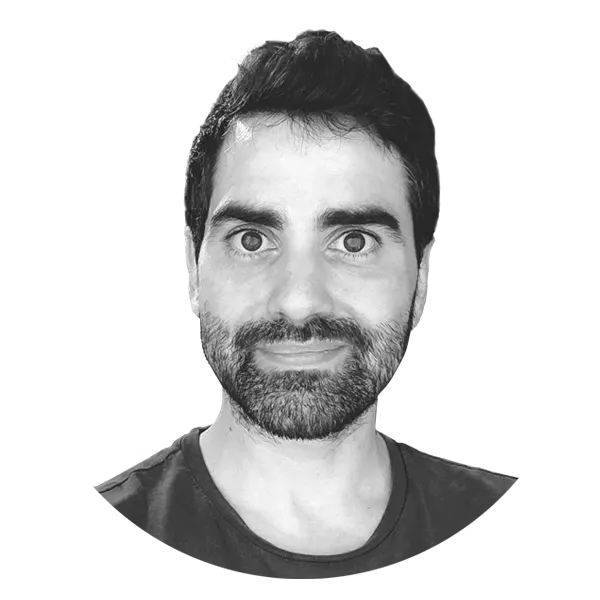
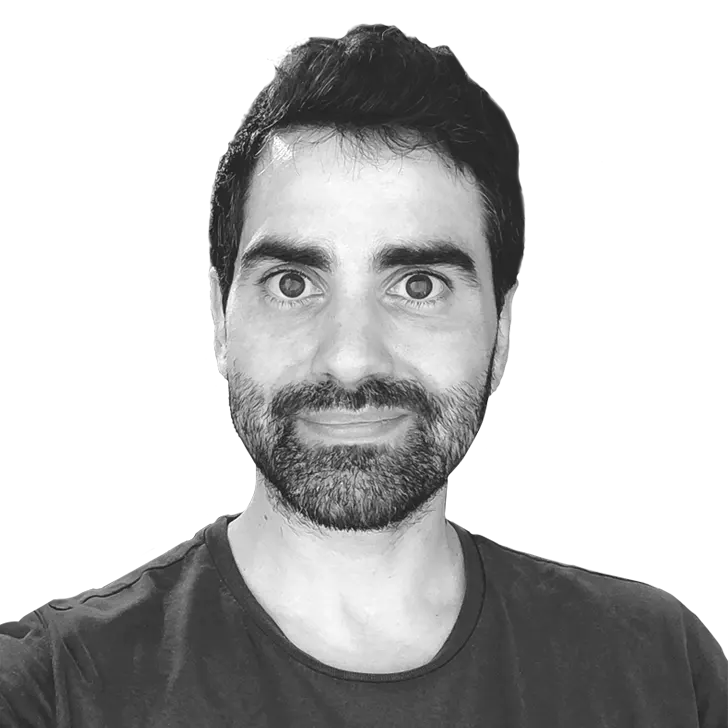
update

diff --git a/assets/css/theme.css b/assets/css/theme.css
@@ -1,1 +1,1 @@
-/*! tailwindcss v3.4.10 | MIT License | https://tailwindcss.com*/*,:after,:before{border:0 solid #e5e7eb;box-sizing:border-box}:after,:before{--tw-content:""}:host,html{-webkit-text-size-adjust:100%;font-feature-settings:normal;-webkit-tap-highlight-color:transparent;font-family:Source Code Pro,monospace,sans-serif;font-variation-settings:normal;line-height:1.5;-moz-tab-size:4;-o-tab-size:4;tab-size:4}body{line-height:inherit;margin:0}hr{border-top-width:1px;color:inherit;height:0}abbr:where([title]){-webkit-text-decoration:underline dotted;text-decoration:underline dotted}h1,h2,h3,h4,h5,h6{font-size:inherit;font-weight:inherit}a{color:inherit;text-decoration:inherit}b,strong{font-weight:bolder}code,kbd,pre,samp{font-feature-settings:normal;font-family:ui-monospace,SFMono-Regular,Menlo,Monaco,Consolas,Liberation Mono,Courier New,monospace;font-size:1em;font-variation-settings:normal}small{font-size:80%}sub,sup{font-size:75%;line-height:0;position:relative;vertical-align:baseline}sub{bottom:-.25em}sup{top:-.5em}table{border-collapse:collapse;border-color:inherit;text-indent:0}button,input,optgroup,select,textarea{font-feature-settings:inherit;color:inherit;font-family:inherit;font-size:100%;font-variation-settings:inherit;font-weight:inherit;letter-spacing:inherit;line-height:inherit;margin:0;padding:0}button,select{text-transform:none}button,input:where([type=button]),input:where([type=reset]),input:where([type=submit]){-webkit-appearance:button;background-color:transparent;background-image:none}:-moz-focusring{outline:auto}:-moz-ui-invalid{box-shadow:none}progress{vertical-align:baseline}::-webkit-inner-spin-button,::-webkit-outer-spin-button{height:auto}[type=search]{-webkit-appearance:textfield;outline-offset:-2px}::-webkit-search-decoration{-webkit-appearance:none}::-webkit-file-upload-button{-webkit-appearance:button;font:inherit}summary{display:list-item}blockquote,dd,dl,figure,h1,h2,h3,h4,h5,h6,hr,p,pre{margin:0}fieldset{margin:0}fieldset,legend{padding:0}menu,ol,ul{list-style:none;margin:0;padding:0}dialog{padding:0}textarea{resize:vertical}input::-moz-placeholder,textarea::-moz-placeholder{color:#9ca3af;opacity:1}input::placeholder,textarea::placeholder{color:#9ca3af;opacity:1}[role=button],button{cursor:pointer}:disabled{cursor:default}audio,canvas,embed,iframe,img,object,svg,video{display:block;vertical-align:middle}img,video{height:auto;max-width:100%}[hidden]{display:none}@font-face{font-display:swap;font-family:Source Code Pro;font-style:normal;font-weight:100 900;src:url(../fonts/SourceCodePro.ttf) format("truetype"),}@font-face{font-display:swap;font-family:Jersey;font-style:normal;font-weight:100 900;src:url(../fonts/Jersey10.ttf) format("truetype"),}html{--tw-text-opacity:1;color:rgb(71 85 105/var(--tw-text-opacity))}*,:after,:before{--tw-border-spacing-x:0;--tw-border-spacing-y:0;--tw-translate-x:0;--tw-translate-y:0;--tw-rotate:0;--tw-skew-x:0;--tw-skew-y:0;--tw-scale-x:1;--tw-scale-y:1;--tw-pan-x: ;--tw-pan-y: ;--tw-pinch-zoom: ;--tw-scroll-snap-strictness:proximity;--tw-gradient-from-position: ;--tw-gradient-via-position: ;--tw-gradient-to-position: ;--tw-ordinal: ;--tw-slashed-zero: ;--tw-numeric-figure: ;--tw-numeric-spacing: ;--tw-numeric-fraction: ;--tw-ring-inset: ;--tw-ring-offset-width:0px;--tw-ring-offset-color:#fff;--tw-ring-color:rgba(59,130,246,.5);--tw-ring-offset-shadow:0 0 #0000;--tw-ring-shadow:0 0 #0000;--tw-shadow:0 0 #0000;--tw-shadow-colored:0 0 #0000;--tw-blur: ;--tw-brightness: ;--tw-contrast: ;--tw-grayscale: ;--tw-hue-rotate: ;--tw-invert: ;--tw-saturate: ;--tw-sepia: ;--tw-drop-shadow: ;--tw-backdrop-blur: ;--tw-backdrop-brightness: ;--tw-backdrop-contrast: ;--tw-backdrop-grayscale: ;--tw-backdrop-hue-rotate: ;--tw-backdrop-invert: ;--tw-backdrop-opacity: ;--tw-backdrop-saturate: ;--tw-backdrop-sepia: ;--tw-contain-size: ;--tw-contain-layout: ;--tw-contain-paint: ;--tw-contain-style: }::backdrop{--tw-border-spacing-x:0;--tw-border-spacing-y:0;--tw-translate-x:0;--tw-translate-y:0;--tw-rotate:0;--tw-skew-x:0;--tw-skew-y:0;--tw-scale-x:1;--tw-scale-y:1;--tw-pan-x: ;--tw-pan-y: ;--tw-pinch-zoom: ;--tw-scroll-snap-strictness:proximity;--tw-gradient-from-position: ;--tw-gradient-via-position: ;--tw-gradient-to-position: ;--tw-ordinal: ;--tw-slashed-zero: ;--tw-numeric-figure: ;--tw-numeric-spacing: ;--tw-numeric-fraction: ;--tw-ring-inset: ;--tw-ring-offset-width:0px;--tw-ring-offset-color:#fff;--tw-ring-color:rgba(59,130,246,.5);--tw-ring-offset-shadow:0 0 #0000;--tw-ring-shadow:0 0 #0000;--tw-shadow:0 0 #0000;--tw-shadow-colored:0 0 #0000;--tw-blur: ;--tw-brightness: ;--tw-contrast: ;--tw-grayscale: ;--tw-hue-rotate: ;--tw-invert: ;--tw-saturate: ;--tw-sepia: ;--tw-drop-shadow: ;--tw-backdrop-blur: ;--tw-backdrop-brightness: ;--tw-backdrop-contrast: ;--tw-backdrop-grayscale: ;--tw-backdrop-hue-rotate: ;--tw-backdrop-invert: ;--tw-backdrop-opacity: ;--tw-backdrop-saturate: ;--tw-backdrop-sepia: ;--tw-contain-size: ;--tw-contain-layout: ;--tw-contain-paint: ;--tw-contain-style: }.container{margin-left:auto;margin-right:auto;padding-left:1rem;padding-right:1rem;width:100%}@media (min-width:600px){.container{max-width:600px;padding-left:2rem;padding-right:2rem}}@media (min-width:728px){.container{max-width:728px}}@media (min-width:984px){.container{max-width:984px;padding-left:4rem;padding-right:4rem}}@media (min-width:1120px){.container{max-width:1120px;padding-left:5rem;padding-right:5rem}}@media (min-width:1280px){.container{max-width:1280px;padding-left:6rem;padding-right:6rem}}.btn_nav{--tw-border-opacity:1;--tw-text-opacity:1;--tw-shadow:0 4px 6px -1px rgba(0,0,0,.1),0 2px 4px -2px rgba(0,0,0,.1);--tw-shadow-colored:0 4px 6px -1px var(--tw-shadow-color),0 2px 4px -2px var(--tw-shadow-color);--tw-backdrop-blur:blur(8px);align-self:center;border-color:rgb(255 255 255/var(--tw-border-opacity));border-left-width:1px;border-radius:9999px;border-top-width:1px;color:rgb(71 85 105/var(--tw-text-opacity));display:flex;font-size:.875rem;font-weight:600;justify-content:center;line-height:1.25rem;padding:.25rem 1rem;position:relative;text-align:center}.btn_nav,.btn_nav:hover{-webkit-backdrop-filter:var(--tw-backdrop-blur) var(--tw-backdrop-brightness) var(--tw-backdrop-contrast) var(--tw-backdrop-grayscale) var(--tw-backdrop-hue-rotate) var(--tw-backdrop-invert) var(--tw-backdrop-opacity) var(--tw-backdrop-saturate) var(--tw-backdrop-sepia);backdrop-filter:var(--tw-backdrop-blur) var(--tw-backdrop-brightness) var(--tw-backdrop-contrast) var(--tw-backdrop-grayscale) var(--tw-backdrop-hue-rotate) var(--tw-backdrop-invert) var(--tw-backdrop-opacity) var(--tw-backdrop-saturate) var(--tw-backdrop-sepia);box-shadow:var(--tw-ring-offset-shadow,0 0 #0000),var(--tw-ring-shadow,0 0 #0000),var(--tw-shadow)}.btn_nav:hover{--tw-border-opacity:1;--tw-text-opacity:1;--tw-shadow:inset 0 2px 4px 0 rgba(0,0,0,.05);--tw-shadow-colored:inset 0 2px 4px 0 var(--tw-shadow-color);--tw-backdrop-blur: ;border-color:rgb(203 213 225/var(--tw-border-opacity));color:rgb(139 92 246/var(--tw-text-opacity))}.btn_nav:where(.dark,.dark *){--tw-border-opacity:1;--tw-text-opacity:1;border-color:rgb(71 85 105/var(--tw-border-opacity));color:rgb(255 255 255/var(--tw-text-opacity))}.btn_nav:where(.dark,.dark *):hover{--tw-border-opacity:1;border-color:rgb(2 6 23/var(--tw-border-opacity))}.btn_nav:hover:where(.dark,.dark *){--tw-text-opacity:1;color:rgb(110 231 183/var(--tw-text-opacity))}.visible{visibility:visible}.static{position:static}.fixed{position:fixed}.absolute{position:absolute}.relative{position:relative}.sticky{position:sticky}.-top-2{top:-.5rem}.bottom-0{bottom:0}.left-0{left:0}.right-7{right:1.75rem}.top-0{top:0}.top-7{top:1.75rem}.-z-10{z-index:-10}.z-50{z-index:50}.mx-auto{margin-left:auto;margin-right:auto}.my-12{margin-bottom:3rem;margin-top:3rem}.mb-6{margin-bottom:1.5rem}.block{display:block}.inline-block{display:inline-block}.inline{display:inline}.flex{display:flex}.table{display:table}.grid{display:grid}.contents{display:contents}.hidden{display:none}.aspect-square{aspect-ratio:1/1}.h-36{height:9rem}.h-48{height:12rem}.h-fit{height:-moz-fit-content;height:fit-content}.h-full{height:100%}.min-h-dvh{min-height:100dvh}.w-auto{width:auto}.w-fit{width:-moz-fit-content;width:fit-content}.w-full{width:100%}.shrink{flex-shrink:1}.rotate-45{--tw-rotate:45deg}.rotate-45,.transform{transform:translate(var(--tw-translate-x),var(--tw-translate-y)) rotate(var(--tw-rotate)) skewX(var(--tw-skew-x)) skewY(var(--tw-skew-y)) scaleX(var(--tw-scale-x)) scaleY(var(--tw-scale-y))}.cursor-pointer{cursor:pointer}.resize{resize:both}.snap-y{scroll-snap-type:y var(--tw-scroll-snap-strictness)}.snap-mandatory{--tw-scroll-snap-strictness:mandatory}.snap-always{scroll-snap-stop:always}.flex-row{flex-direction:row}.flex-col{flex-direction:column}.flex-col-reverse{flex-direction:column-reverse}.flex-wrap{flex-wrap:wrap}.items-center{align-items:center}.justify-end{justify-content:flex-end}.justify-center{justify-content:center}.justify-between{justify-content:space-between}.gap-10{gap:2.5rem}.gap-3{gap:.75rem}.gap-y-6{row-gap:1.5rem}.self-end{align-self:flex-end}.self-center{align-self:center}.overflow-x-hidden{overflow-x:hidden}.scroll-smooth{scroll-behavior:smooth}.rounded-full{border-radius:9999px}.rounded-lg{border-radius:.5rem}.border{border-width:1px}.border-l{border-left-width:1px}.border-t{border-top-width:1px}.border-white{--tw-border-opacity:1;border-color:rgb(255 255 255/var(--tw-border-opacity))}.bg-\[rgba\(255\2c 255\2c 255\2c 0\.1\)\]{background-color:hsla(0,0%,100%,.1)}.bg-black\/50{background-color:rgba(0,0,0,.5)}.bg-transparent{background-color:transparent}.bg-white{--tw-bg-opacity:1;background-color:rgb(255 255 255/var(--tw-bg-opacity))}.bg-\[radial-gradient\(ellipse_at_top\2c _var\(--tw-gradient-stops\)\)\]{background-image:radial-gradient(ellipse at top,var(--tw-gradient-stops))}.from-slate-50{--tw-gradient-from:#f8fafc var(--tw-gradient-from-position);--tw-gradient-to:rgba(248,250,252,0) var(--tw-gradient-to-position);--tw-gradient-stops:var(--tw-gradient-from),var(--tw-gradient-to)}.via-slate-100{--tw-gradient-to:rgba(241,245,249,0) var(--tw-gradient-to-position);--tw-gradient-stops:var(--tw-gradient-from),#f1f5f9 var(--tw-gradient-via-position),var(--tw-gradient-to)}.to-gray-50{--tw-gradient-to:#f9fafb var(--tw-gradient-to-position)}.fill-slate-600{fill:#475569}.stroke-black{stroke:#000}.p-2{padding:.5rem}.p-6{padding:1.5rem}.p-8{padding:2rem}.px-6{padding-left:1.5rem;padding-right:1.5rem}.py-3{padding-bottom:.75rem;padding-top:.75rem}.py-4{padding-bottom:1rem;padding-top:1rem}.py-6{padding-bottom:1.5rem;padding-top:1.5rem}.text-center{text-align:center}.font-title{font-family:Jersey,fantasy,serif,system-ui,sans-serif}.text-2xl{font-size:1.5rem;line-height:2rem}.text-3xl{font-size:1.875rem;line-height:2.25rem}.text-4xl{font-size:2.25rem;line-height:2.5rem}.text-base{font-size:1rem;line-height:1.5rem}.text-sm{font-size:.875rem;line-height:1.25rem}.text-xl{font-size:1.25rem;line-height:1.75rem}.text-xs{font-size:.75rem;line-height:1rem}.font-bold{font-weight:700}.font-light{font-weight:300}.font-medium{font-weight:500}.font-semibold{font-weight:600}.leading-3{line-height:.75rem}.leading-4{line-height:1rem}.text-gray-700{--tw-text-opacity:1;color:rgb(55 65 81/var(--tw-text-opacity))}.text-violet-500{--tw-text-opacity:1;color:rgb(139 92 246/var(--tw-text-opacity))}.opacity-10{opacity:.1}.opacity-40{opacity:.4}.opacity-60{opacity:.6}.shadow{--tw-shadow:0 1px 3px 0 rgba(0,0,0,.1),0 1px 2px -1px rgba(0,0,0,.1);--tw-shadow-colored:0 1px 3px 0 var(--tw-shadow-color),0 1px 2px -1px var(--tw-shadow-color)}.shadow,.shadow-md{box-shadow:var(--tw-ring-offset-shadow,0 0 #0000),var(--tw-ring-shadow,0 0 #0000),var(--tw-shadow)}.shadow-md{--tw-shadow:0 4px 6px -1px rgba(0,0,0,.1),0 2px 4px -2px rgba(0,0,0,.1);--tw-shadow-colored:0 4px 6px -1px var(--tw-shadow-color),0 2px 4px -2px var(--tw-shadow-color)}.shadow-neutral-300{--tw-shadow-color:#d4d4d4;--tw-shadow:var(--tw-shadow-colored)}.shadow-slate-950\/20{--tw-shadow-color:rgba(2,6,23,.2);--tw-shadow:var(--tw-shadow-colored)}.outline{outline-style:solid}.ring{--tw-ring-offset-shadow:var(--tw-ring-inset) 0 0 0 var(--tw-ring-offset-width) var(--tw-ring-offset-color);--tw-ring-shadow:var(--tw-ring-inset) 0 0 0 calc(3px + var(--tw-ring-offset-width)) var(--tw-ring-color);box-shadow:var(--tw-ring-offset-shadow),var(--tw-ring-shadow),var(--tw-shadow,0 0 #0000)}.blur{--tw-blur:blur(8px)}.blur,.brightness-0{filter:var(--tw-blur) var(--tw-brightness) var(--tw-contrast) var(--tw-grayscale) var(--tw-hue-rotate) var(--tw-invert) var(--tw-saturate) var(--tw-sepia) var(--tw-drop-shadow)}.brightness-0{--tw-brightness:brightness(0)}.drop-shadow{--tw-drop-shadow:drop-shadow(0 1px 2px rgba(0,0,0,.1)) drop-shadow(0 1px 1px rgba(0,0,0,.06))}.drop-shadow,.drop-shadow-md{filter:var(--tw-blur) var(--tw-brightness) var(--tw-contrast) var(--tw-grayscale) var(--tw-hue-rotate) var(--tw-invert) var(--tw-saturate) var(--tw-sepia) var(--tw-drop-shadow)}.drop-shadow-md{--tw-drop-shadow:drop-shadow(0 4px 3px rgba(0,0,0,.07)) drop-shadow(0 2px 2px rgba(0,0,0,.06))}.invert{--tw-invert:invert(100%)}.filter,.invert{filter:var(--tw-blur) var(--tw-brightness) var(--tw-contrast) var(--tw-grayscale) var(--tw-hue-rotate) var(--tw-invert) var(--tw-saturate) var(--tw-sepia) var(--tw-drop-shadow)}.backdrop-blur{--tw-backdrop-blur:blur(8px)}.backdrop-blur,.backdrop-blur-sm{-webkit-backdrop-filter:var(--tw-backdrop-blur) var(--tw-backdrop-brightness) var(--tw-backdrop-contrast) var(--tw-backdrop-grayscale) var(--tw-backdrop-hue-rotate) var(--tw-backdrop-invert) var(--tw-backdrop-opacity) var(--tw-backdrop-saturate) var(--tw-backdrop-sepia);backdrop-filter:var(--tw-backdrop-blur) var(--tw-backdrop-brightness) var(--tw-backdrop-contrast) var(--tw-backdrop-grayscale) var(--tw-backdrop-hue-rotate) var(--tw-backdrop-invert) var(--tw-backdrop-opacity) var(--tw-backdrop-saturate) var(--tw-backdrop-sepia)}.backdrop-blur-sm{--tw-backdrop-blur:blur(4px)}.transition{transition-duration:.15s;transition-property:color,background-color,border-color,text-decoration-color,fill,stroke,opacity,box-shadow,transform,filter,-webkit-backdrop-filter;transition-property:color,background-color,border-color,text-decoration-color,fill,stroke,opacity,box-shadow,transform,filter,backdrop-filter;transition-property:color,background-color,border-color,text-decoration-color,fill,stroke,opacity,box-shadow,transform,filter,backdrop-filter,-webkit-backdrop-filter;transition-timing-function:cubic-bezier(.4,0,.2,1)}.transition-opacity{transition-duration:.15s;transition-property:opacity;transition-timing-function:cubic-bezier(.4,0,.2,1)}.duration-500{transition-duration:.5s}.before\:top-0:before{content:var(--tw-content);top:0}.before\:top-10:before{content:var(--tw-content);top:2.5rem}.before\:top-20:before{content:var(--tw-content);top:5rem}.after\:top-0:after{content:var(--tw-content);top:0}.after\:top-10:after{content:var(--tw-content);top:2.5rem}.after\:top-20:after{content:var(--tw-content);top:5rem}.hover\:rotate-0:hover{--tw-rotate:0deg;transform:translate(var(--tw-translate-x),var(--tw-translate-y)) rotate(var(--tw-rotate)) skewX(var(--tw-skew-x)) skewY(var(--tw-skew-y)) scaleX(var(--tw-scale-x)) scaleY(var(--tw-scale-y))}.hover\:border-slate-300:hover{--tw-border-opacity:1;border-color:rgb(203 213 225/var(--tw-border-opacity))}.hover\:opacity-100:hover{opacity:1}.hover\:shadow-inner:hover{--tw-shadow:inset 0 2px 4px 0 rgba(0,0,0,.05);--tw-shadow-colored:inset 0 2px 4px 0 var(--tw-shadow-color);box-shadow:var(--tw-ring-offset-shadow,0 0 #0000),var(--tw-ring-shadow,0 0 #0000),var(--tw-shadow)}.hover\:brightness-100:hover{--tw-brightness:brightness(1);filter:var(--tw-blur) var(--tw-brightness) var(--tw-contrast) var(--tw-grayscale) var(--tw-hue-rotate) var(--tw-invert) var(--tw-saturate) var(--tw-sepia) var(--tw-drop-shadow)}.hover\:backdrop-blur-none:hover{--tw-backdrop-blur: ;-webkit-backdrop-filter:var(--tw-backdrop-blur) var(--tw-backdrop-brightness) var(--tw-backdrop-contrast) var(--tw-backdrop-grayscale) var(--tw-backdrop-hue-rotate) var(--tw-backdrop-invert) var(--tw-backdrop-opacity) var(--tw-backdrop-saturate) var(--tw-backdrop-sepia);backdrop-filter:var(--tw-backdrop-blur) var(--tw-backdrop-brightness) var(--tw-backdrop-contrast) var(--tw-backdrop-grayscale) var(--tw-backdrop-hue-rotate) var(--tw-backdrop-invert) var(--tw-backdrop-opacity) var(--tw-backdrop-saturate) var(--tw-backdrop-sepia)}.group:hover .group-hover\:block{display:block}.group:hover .group-hover\:fill-emerald-300{fill:#6ee7b7}.group:hover .group-hover\:fill-violet-500{fill:#8b5cf6}@media (min-width:768px){.md\:-mt-16{margin-top:-4rem}.md\:-mt-24{margin-top:-6rem}.md\:mt-24{margin-top:6rem}.md\:mt-6{margin-top:1.5rem}.md\:w-5\/12{width:41.666667%}.md\:gap-10{gap:2.5rem}.md\:gap-y-12{row-gap:3rem}.md\:text-4xl{font-size:2.25rem;line-height:2.5rem}.md\:text-5xl{font-size:3rem;line-height:1}}@media (min-width:1024px){.lg\:mx-0{margin-left:0;margin-right:0}.lg\:my-24{margin-bottom:6rem;margin-top:6rem}.lg\:mb-12{margin-bottom:3rem}.lg\:ml-auto{margin-left:auto}.lg\:mr-12{margin-right:3rem}.lg\:mt-24{margin-top:6rem}.lg\:w-1\/2{width:50%}.lg\:flex-row{flex-direction:row}.lg\:gap-16{gap:4rem}.lg\:p-12{padding:3rem}.lg\:py-12{padding-bottom:3rem;padding-top:3rem}}.dark\:block:where(.dark,.dark *){display:block}.dark\:hidden:where(.dark,.dark *){display:none}.dark\:border-slate-600:where(.dark,.dark *){--tw-border-opacity:1;border-color:rgb(71 85 105/var(--tw-border-opacity))}.dark\:bg-\[rgba\(0\2c 0\2c 0\2c 0\.1\)\]:where(.dark,.dark *){background-color:rgba(0,0,0,.1)}.dark\:bg-slate-700:where(.dark,.dark *){--tw-bg-opacity:1;background-color:rgb(51 65 85/var(--tw-bg-opacity))}.dark\:bg-\[radial-gradient\(ellipse_at_top\2c _var\(--tw-gradient-stops\)\)\]:where(.dark,.dark *){background-image:radial-gradient(ellipse at top,var(--tw-gradient-stops))}.dark\:from-\[\#282a2d\]:where(.dark,.dark *){--tw-gradient-from:#282a2d var(--tw-gradient-from-position);--tw-gradient-to:rgba(40,42,45,0) var(--tw-gradient-to-position);--tw-gradient-stops:var(--tw-gradient-from),var(--tw-gradient-to)}.dark\:via-\[\#101114\]:where(.dark,.dark *){--tw-gradient-to:rgba(16,17,20,0) var(--tw-gradient-to-position);--tw-gradient-stops:var(--tw-gradient-from),#101114 var(--tw-gradient-via-position),var(--tw-gradient-to)}.dark\:to-black:where(.dark,.dark *){--tw-gradient-to:#000 var(--tw-gradient-to-position)}.dark\:fill-white:where(.dark,.dark *){fill:#fff}.dark\:stroke-\[\#475569\]:where(.dark,.dark *){stroke:#475569}.dark\:text-emerald-300:where(.dark,.dark *){--tw-text-opacity:1;color:rgb(110 231 183/var(--tw-text-opacity))}.dark\:text-emerald-500:where(.dark,.dark *){--tw-text-opacity:1;color:rgb(16 185 129/var(--tw-text-opacity))}.dark\:text-white:where(.dark,.dark *){--tw-text-opacity:1;color:rgb(255 255 255/var(--tw-text-opacity))}.dark\:opacity-30:where(.dark,.dark *){opacity:.3}.dark\:invert:where(.dark,.dark *){--tw-invert:invert(100%);filter:var(--tw-blur) var(--tw-brightness) var(--tw-contrast) var(--tw-grayscale) var(--tw-hue-rotate) var(--tw-invert) var(--tw-saturate) var(--tw-sepia) var(--tw-drop-shadow)}.hover\:dark\:border-slate-950:where(.dark,.dark *):hover{--tw-border-opacity:1;border-color:rgb(2 6 23/var(--tw-border-opacity))}.dark\:hover\:invert-0:hover:where(.dark,.dark *){--tw-invert:invert(0);filter:var(--tw-blur) var(--tw-brightness) var(--tw-contrast) var(--tw-grayscale) var(--tw-hue-rotate) var(--tw-invert) var(--tw-saturate) var(--tw-sepia) var(--tw-drop-shadow)}
+/*! tailwindcss v3.4.10 | MIT License | https://tailwindcss.com*/*,:after,:before{border:0 solid #e5e7eb;box-sizing:border-box}:after,:before{--tw-content:""}:host,html{-webkit-text-size-adjust:100%;font-feature-settings:normal;-webkit-tap-highlight-color:transparent;font-family:Source Code Pro,monospace,sans-serif;font-variation-settings:normal;line-height:1.5;-moz-tab-size:4;-o-tab-size:4;tab-size:4}body{line-height:inherit;margin:0}hr{border-top-width:1px;color:inherit;height:0}abbr:where([title]){-webkit-text-decoration:underline dotted;text-decoration:underline dotted}h1,h2,h3,h4,h5,h6{font-size:inherit;font-weight:inherit}a{color:inherit;text-decoration:inherit}b,strong{font-weight:bolder}code,kbd,pre,samp{font-feature-settings:normal;font-family:ui-monospace,SFMono-Regular,Menlo,Monaco,Consolas,Liberation Mono,Courier New,monospace;font-size:1em;font-variation-settings:normal}small{font-size:80%}sub,sup{font-size:75%;line-height:0;position:relative;vertical-align:baseline}sub{bottom:-.25em}sup{top:-.5em}table{border-collapse:collapse;border-color:inherit;text-indent:0}button,input,optgroup,select,textarea{font-feature-settings:inherit;color:inherit;font-family:inherit;font-size:100%;font-variation-settings:inherit;font-weight:inherit;letter-spacing:inherit;line-height:inherit;margin:0;padding:0}button,select{text-transform:none}button,input:where([type=button]),input:where([type=reset]),input:where([type=submit]){-webkit-appearance:button;background-color:transparent;background-image:none}:-moz-focusring{outline:auto}:-moz-ui-invalid{box-shadow:none}progress{vertical-align:baseline}::-webkit-inner-spin-button,::-webkit-outer-spin-button{height:auto}[type=search]{-webkit-appearance:textfield;outline-offset:-2px}::-webkit-search-decoration{-webkit-appearance:none}::-webkit-file-upload-button{-webkit-appearance:button;font:inherit}summary{display:list-item}blockquote,dd,dl,figure,h1,h2,h3,h4,h5,h6,hr,p,pre{margin:0}fieldset{margin:0}fieldset,legend{padding:0}menu,ol,ul{list-style:none;margin:0;padding:0}dialog{padding:0}textarea{resize:vertical}input::-moz-placeholder,textarea::-moz-placeholder{color:#9ca3af;opacity:1}input::placeholder,textarea::placeholder{color:#9ca3af;opacity:1}[role=button],button{cursor:pointer}:disabled{cursor:default}audio,canvas,embed,iframe,img,object,svg,video{display:block;vertical-align:middle}img,video{height:auto;max-width:100%}[hidden]{display:none}@font-face{font-display:swap;font-family:Source Code Pro;font-style:normal;font-weight:100 900;src:url(../fonts/SourceCodePro.ttf) format("truetype"),}@font-face{font-display:swap;font-family:Jersey;font-style:normal;font-weight:100 900;src:url(../fonts/Jersey10.ttf) format("truetype"),}html{--tw-text-opacity:1;color:rgb(71 85 105/var(--tw-text-opacity))}*,:after,:before{--tw-border-spacing-x:0;--tw-border-spacing-y:0;--tw-translate-x:0;--tw-translate-y:0;--tw-rotate:0;--tw-skew-x:0;--tw-skew-y:0;--tw-scale-x:1;--tw-scale-y:1;--tw-pan-x: ;--tw-pan-y: ;--tw-pinch-zoom: ;--tw-scroll-snap-strictness:proximity;--tw-gradient-from-position: ;--tw-gradient-via-position: ;--tw-gradient-to-position: ;--tw-ordinal: ;--tw-slashed-zero: ;--tw-numeric-figure: ;--tw-numeric-spacing: ;--tw-numeric-fraction: ;--tw-ring-inset: ;--tw-ring-offset-width:0px;--tw-ring-offset-color:#fff;--tw-ring-color:rgba(59,130,246,.5);--tw-ring-offset-shadow:0 0 #0000;--tw-ring-shadow:0 0 #0000;--tw-shadow:0 0 #0000;--tw-shadow-colored:0 0 #0000;--tw-blur: ;--tw-brightness: ;--tw-contrast: ;--tw-grayscale: ;--tw-hue-rotate: ;--tw-invert: ;--tw-saturate: ;--tw-sepia: ;--tw-drop-shadow: ;--tw-backdrop-blur: ;--tw-backdrop-brightness: ;--tw-backdrop-contrast: ;--tw-backdrop-grayscale: ;--tw-backdrop-hue-rotate: ;--tw-backdrop-invert: ;--tw-backdrop-opacity: ;--tw-backdrop-saturate: ;--tw-backdrop-sepia: ;--tw-contain-size: ;--tw-contain-layout: ;--tw-contain-paint: ;--tw-contain-style: }::backdrop{--tw-border-spacing-x:0;--tw-border-spacing-y:0;--tw-translate-x:0;--tw-translate-y:0;--tw-rotate:0;--tw-skew-x:0;--tw-skew-y:0;--tw-scale-x:1;--tw-scale-y:1;--tw-pan-x: ;--tw-pan-y: ;--tw-pinch-zoom: ;--tw-scroll-snap-strictness:proximity;--tw-gradient-from-position: ;--tw-gradient-via-position: ;--tw-gradient-to-position: ;--tw-ordinal: ;--tw-slashed-zero: ;--tw-numeric-figure: ;--tw-numeric-spacing: ;--tw-numeric-fraction: ;--tw-ring-inset: ;--tw-ring-offset-width:0px;--tw-ring-offset-color:#fff;--tw-ring-color:rgba(59,130,246,.5);--tw-ring-offset-shadow:0 0 #0000;--tw-ring-shadow:0 0 #0000;--tw-shadow:0 0 #0000;--tw-shadow-colored:0 0 #0000;--tw-blur: ;--tw-brightness: ;--tw-contrast: ;--tw-grayscale: ;--tw-hue-rotate: ;--tw-invert: ;--tw-saturate: ;--tw-sepia: ;--tw-drop-shadow: ;--tw-backdrop-blur: ;--tw-backdrop-brightness: ;--tw-backdrop-contrast: ;--tw-backdrop-grayscale: ;--tw-backdrop-hue-rotate: ;--tw-backdrop-invert: ;--tw-backdrop-opacity: ;--tw-backdrop-saturate: ;--tw-backdrop-sepia: ;--tw-contain-size: ;--tw-contain-layout: ;--tw-contain-paint: ;--tw-contain-style: }.container{margin-left:auto;margin-right:auto;padding-left:1rem;padding-right:1rem;width:100%}@media (min-width:600px){.container{max-width:600px;padding-left:2rem;padding-right:2rem}}@media (min-width:728px){.container{max-width:728px}}@media (min-width:984px){.container{max-width:984px;padding-left:4rem;padding-right:4rem}}@media (min-width:1120px){.container{max-width:1120px;padding-left:5rem;padding-right:5rem}}@media (min-width:1280px){.container{max-width:1280px;padding-left:6rem;padding-right:6rem}}.btn_nav{--tw-border-opacity:1;--tw-text-opacity:1;--tw-shadow:0 4px 6px -1px rgba(0,0,0,.1),0 2px 4px -2px rgba(0,0,0,.1);--tw-shadow-colored:0 4px 6px -1px var(--tw-shadow-color),0 2px 4px -2px var(--tw-shadow-color);--tw-backdrop-blur:blur(8px);align-self:center;border-color:rgb(255 255 255/var(--tw-border-opacity));border-left-width:1px;border-radius:9999px;border-top-width:1px;color:rgb(71 85 105/var(--tw-text-opacity));display:flex;font-size:.875rem;font-weight:600;justify-content:center;line-height:1.25rem;padding:.25rem 1rem;position:relative;text-align:center}.btn_nav,.btn_nav:hover{-webkit-backdrop-filter:var(--tw-backdrop-blur) var(--tw-backdrop-brightness) var(--tw-backdrop-contrast) var(--tw-backdrop-grayscale) var(--tw-backdrop-hue-rotate) var(--tw-backdrop-invert) var(--tw-backdrop-opacity) var(--tw-backdrop-saturate) var(--tw-backdrop-sepia);backdrop-filter:var(--tw-backdrop-blur) var(--tw-backdrop-brightness) var(--tw-backdrop-contrast) var(--tw-backdrop-grayscale) var(--tw-backdrop-hue-rotate) var(--tw-backdrop-invert) var(--tw-backdrop-opacity) var(--tw-backdrop-saturate) var(--tw-backdrop-sepia);box-shadow:var(--tw-ring-offset-shadow,0 0 #0000),var(--tw-ring-shadow,0 0 #0000),var(--tw-shadow)}.btn_nav:hover{--tw-border-opacity:1;--tw-text-opacity:1;--tw-shadow:inset 0 2px 4px 0 rgba(0,0,0,.05);--tw-shadow-colored:inset 0 2px 4px 0 var(--tw-shadow-color);--tw-backdrop-blur: ;border-color:rgb(203 213 225/var(--tw-border-opacity));color:rgb(139 92 246/var(--tw-text-opacity))}.btn_nav:where(.dark,.dark *){--tw-border-opacity:1;--tw-text-opacity:1;border-color:rgb(71 85 105/var(--tw-border-opacity));color:rgb(255 255 255/var(--tw-text-opacity))}.btn_nav:where(.dark,.dark *):hover{--tw-border-opacity:1;border-color:rgb(2 6 23/var(--tw-border-opacity))}.btn_nav:hover:where(.dark,.dark *){--tw-text-opacity:1;color:rgb(110 231 183/var(--tw-text-opacity))}.visible{visibility:visible}.static{position:static}.fixed{position:fixed}.absolute{position:absolute}.relative{position:relative}.sticky{position:sticky}.-top-2{top:-.5rem}.bottom-0{bottom:0}.left-0{left:0}.right-7{right:1.75rem}.top-0{top:0}.top-7{top:1.75rem}.-z-10{z-index:-10}.z-50{z-index:50}.mx-auto{margin-left:auto;margin-right:auto}.my-12{margin-bottom:3rem;margin-top:3rem}.mb-6{margin-bottom:1.5rem}.block{display:block}.inline-block{display:inline-block}.inline{display:inline}.flex{display:flex}.table{display:table}.grid{display:grid}.contents{display:contents}.hidden{display:none}.aspect-square{aspect-ratio:1/1}.h-36{height:9rem}.h-48{height:12rem}.h-fit{height:-moz-fit-content;height:fit-content}.h-full{height:100%}.min-h-dvh{min-height:100dvh}.w-auto{width:auto}.w-fit{width:-moz-fit-content;width:fit-content}.w-full{width:100%}.shrink{flex-shrink:1}.rotate-45{--tw-rotate:45deg}.rotate-45,.transform{transform:translate(var(--tw-translate-x),var(--tw-translate-y)) rotate(var(--tw-rotate)) skewX(var(--tw-skew-x)) skewY(var(--tw-skew-y)) scaleX(var(--tw-scale-x)) scaleY(var(--tw-scale-y))}.cursor-pointer{cursor:pointer}.resize{resize:both}.snap-y{scroll-snap-type:y var(--tw-scroll-snap-strictness)}.snap-mandatory{--tw-scroll-snap-strictness:mandatory}.snap-always{scroll-snap-stop:always}.flex-row{flex-direction:row}.flex-col{flex-direction:column}.flex-col-reverse{flex-direction:column-reverse}.flex-wrap{flex-wrap:wrap}.items-center{align-items:center}.justify-end{justify-content:flex-end}.justify-center{justify-content:center}.justify-between{justify-content:space-between}.gap-10{gap:2.5rem}.gap-3{gap:.75rem}.gap-y-6{row-gap:1.5rem}.self-end{align-self:flex-end}.self-center{align-self:center}.overflow-hidden{overflow:hidden}.overflow-x-hidden{overflow-x:hidden}.scroll-smooth{scroll-behavior:smooth}.rounded-full{border-radius:9999px}.rounded-lg{border-radius:.5rem}.border{border-width:1px}.border-l{border-left-width:1px}.border-t{border-top-width:1px}.border-white{--tw-border-opacity:1;border-color:rgb(255 255 255/var(--tw-border-opacity))}.bg-\[rgba\(255\2c 255\2c 255\2c 0\.1\)\]{background-color:hsla(0,0%,100%,.1)}.bg-black\/50{background-color:rgba(0,0,0,.5)}.bg-transparent{background-color:transparent}.bg-white{--tw-bg-opacity:1;background-color:rgb(255 255 255/var(--tw-bg-opacity))}.bg-\[radial-gradient\(ellipse_at_top\2c _var\(--tw-gradient-stops\)\)\]{background-image:radial-gradient(ellipse at top,var(--tw-gradient-stops))}.from-slate-50{--tw-gradient-from:#f8fafc var(--tw-gradient-from-position);--tw-gradient-to:rgba(248,250,252,0) var(--tw-gradient-to-position);--tw-gradient-stops:var(--tw-gradient-from),var(--tw-gradient-to)}.via-slate-100{--tw-gradient-to:rgba(241,245,249,0) var(--tw-gradient-to-position);--tw-gradient-stops:var(--tw-gradient-from),#f1f5f9 var(--tw-gradient-via-position),var(--tw-gradient-to)}.to-gray-50{--tw-gradient-to:#f9fafb var(--tw-gradient-to-position)}.fill-slate-600{fill:#475569}.stroke-black{stroke:#000}.p-2{padding:.5rem}.p-6{padding:1.5rem}.p-8{padding:2rem}.px-6{padding-left:1.5rem;padding-right:1.5rem}.py-3{padding-bottom:.75rem;padding-top:.75rem}.py-4{padding-bottom:1rem;padding-top:1rem}.py-6{padding-bottom:1.5rem;padding-top:1.5rem}.text-center{text-align:center}.font-title{font-family:Jersey,fantasy,serif,system-ui,sans-serif}.text-2xl{font-size:1.5rem;line-height:2rem}.text-3xl{font-size:1.875rem;line-height:2.25rem}.text-4xl{font-size:2.25rem;line-height:2.5rem}.text-base{font-size:1rem;line-height:1.5rem}.text-sm{font-size:.875rem;line-height:1.25rem}.text-xl{font-size:1.25rem;line-height:1.75rem}.text-xs{font-size:.75rem;line-height:1rem}.font-bold{font-weight:700}.font-light{font-weight:300}.font-medium{font-weight:500}.font-semibold{font-weight:600}.leading-3{line-height:.75rem}.leading-4{line-height:1rem}.text-gray-700{--tw-text-opacity:1;color:rgb(55 65 81/var(--tw-text-opacity))}.text-violet-500{--tw-text-opacity:1;color:rgb(139 92 246/var(--tw-text-opacity))}.opacity-10{opacity:.1}.opacity-40{opacity:.4}.opacity-60{opacity:.6}.shadow{--tw-shadow:0 1px 3px 0 rgba(0,0,0,.1),0 1px 2px -1px rgba(0,0,0,.1);--tw-shadow-colored:0 1px 3px 0 var(--tw-shadow-color),0 1px 2px -1px var(--tw-shadow-color)}.shadow,.shadow-md{box-shadow:var(--tw-ring-offset-shadow,0 0 #0000),var(--tw-ring-shadow,0 0 #0000),var(--tw-shadow)}.shadow-md{--tw-shadow:0 4px 6px -1px rgba(0,0,0,.1),0 2px 4px -2px rgba(0,0,0,.1);--tw-shadow-colored:0 4px 6px -1px var(--tw-shadow-color),0 2px 4px -2px var(--tw-shadow-color)}.shadow-neutral-300{--tw-shadow-color:#d4d4d4;--tw-shadow:var(--tw-shadow-colored)}.shadow-slate-950\/20{--tw-shadow-color:rgba(2,6,23,.2);--tw-shadow:var(--tw-shadow-colored)}.outline{outline-style:solid}.ring{--tw-ring-offset-shadow:var(--tw-ring-inset) 0 0 0 var(--tw-ring-offset-width) var(--tw-ring-offset-color);--tw-ring-shadow:var(--tw-ring-inset) 0 0 0 calc(3px + var(--tw-ring-offset-width)) var(--tw-ring-color);box-shadow:var(--tw-ring-offset-shadow),var(--tw-ring-shadow),var(--tw-shadow,0 0 #0000)}.blur{--tw-blur:blur(8px)}.blur,.brightness-0{filter:var(--tw-blur) var(--tw-brightness) var(--tw-contrast) var(--tw-grayscale) var(--tw-hue-rotate) var(--tw-invert) var(--tw-saturate) var(--tw-sepia) var(--tw-drop-shadow)}.brightness-0{--tw-brightness:brightness(0)}.drop-shadow{--tw-drop-shadow:drop-shadow(0 1px 2px rgba(0,0,0,.1)) drop-shadow(0 1px 1px rgba(0,0,0,.06))}.drop-shadow,.drop-shadow-md{filter:var(--tw-blur) var(--tw-brightness) var(--tw-contrast) var(--tw-grayscale) var(--tw-hue-rotate) var(--tw-invert) var(--tw-saturate) var(--tw-sepia) var(--tw-drop-shadow)}.drop-shadow-md{--tw-drop-shadow:drop-shadow(0 4px 3px rgba(0,0,0,.07)) drop-shadow(0 2px 2px rgba(0,0,0,.06))}.invert{--tw-invert:invert(100%)}.filter,.invert{filter:var(--tw-blur) var(--tw-brightness) var(--tw-contrast) var(--tw-grayscale) var(--tw-hue-rotate) var(--tw-invert) var(--tw-saturate) var(--tw-sepia) var(--tw-drop-shadow)}.backdrop-blur{--tw-backdrop-blur:blur(8px)}.backdrop-blur,.backdrop-blur-sm{-webkit-backdrop-filter:var(--tw-backdrop-blur) var(--tw-backdrop-brightness) var(--tw-backdrop-contrast) var(--tw-backdrop-grayscale) var(--tw-backdrop-hue-rotate) var(--tw-backdrop-invert) var(--tw-backdrop-opacity) var(--tw-backdrop-saturate) var(--tw-backdrop-sepia);backdrop-filter:var(--tw-backdrop-blur) var(--tw-backdrop-brightness) var(--tw-backdrop-contrast) var(--tw-backdrop-grayscale) var(--tw-backdrop-hue-rotate) var(--tw-backdrop-invert) var(--tw-backdrop-opacity) var(--tw-backdrop-saturate) var(--tw-backdrop-sepia)}.backdrop-blur-sm{--tw-backdrop-blur:blur(4px)}.transition{transition-duration:.15s;transition-property:color,background-color,border-color,text-decoration-color,fill,stroke,opacity,box-shadow,transform,filter,-webkit-backdrop-filter;transition-property:color,background-color,border-color,text-decoration-color,fill,stroke,opacity,box-shadow,transform,filter,backdrop-filter;transition-property:color,background-color,border-color,text-decoration-color,fill,stroke,opacity,box-shadow,transform,filter,backdrop-filter,-webkit-backdrop-filter;transition-timing-function:cubic-bezier(.4,0,.2,1)}.transition-opacity{transition-duration:.15s;transition-property:opacity;transition-timing-function:cubic-bezier(.4,0,.2,1)}.duration-500{transition-duration:.5s}.before\:top-0:before{content:var(--tw-content);top:0}.before\:top-10:before{content:var(--tw-content);top:2.5rem}.before\:top-20:before{content:var(--tw-content);top:5rem}.after\:top-0:after{content:var(--tw-content);top:0}.after\:top-10:after{content:var(--tw-content);top:2.5rem}.after\:top-20:after{content:var(--tw-content);top:5rem}.hover\:rotate-0:hover{--tw-rotate:0deg;transform:translate(var(--tw-translate-x),var(--tw-translate-y)) rotate(var(--tw-rotate)) skewX(var(--tw-skew-x)) skewY(var(--tw-skew-y)) scaleX(var(--tw-scale-x)) scaleY(var(--tw-scale-y))}.hover\:border-slate-300:hover{--tw-border-opacity:1;border-color:rgb(203 213 225/var(--tw-border-opacity))}.hover\:opacity-100:hover{opacity:1}.hover\:shadow-inner:hover{--tw-shadow:inset 0 2px 4px 0 rgba(0,0,0,.05);--tw-shadow-colored:inset 0 2px 4px 0 var(--tw-shadow-color);box-shadow:var(--tw-ring-offset-shadow,0 0 #0000),var(--tw-ring-shadow,0 0 #0000),var(--tw-shadow)}.hover\:brightness-100:hover{--tw-brightness:brightness(1);filter:var(--tw-blur) var(--tw-brightness) var(--tw-contrast) var(--tw-grayscale) var(--tw-hue-rotate) var(--tw-invert) var(--tw-saturate) var(--tw-sepia) var(--tw-drop-shadow)}.hover\:backdrop-blur-none:hover{--tw-backdrop-blur: ;-webkit-backdrop-filter:var(--tw-backdrop-blur) var(--tw-backdrop-brightness) var(--tw-backdrop-contrast) var(--tw-backdrop-grayscale) var(--tw-backdrop-hue-rotate) var(--tw-backdrop-invert) var(--tw-backdrop-opacity) var(--tw-backdrop-saturate) var(--tw-backdrop-sepia);backdrop-filter:var(--tw-backdrop-blur) var(--tw-backdrop-brightness) var(--tw-backdrop-contrast) var(--tw-backdrop-grayscale) var(--tw-backdrop-hue-rotate) var(--tw-backdrop-invert) var(--tw-backdrop-opacity) var(--tw-backdrop-saturate) var(--tw-backdrop-sepia)}.group:hover .group-hover\:block{display:block}.group:hover .group-hover\:fill-emerald-300{fill:#6ee7b7}.group:hover .group-hover\:fill-violet-500{fill:#8b5cf6}@media (min-width:768px){.md\:-mt-16{margin-top:-4rem}.md\:-mt-24{margin-top:-6rem}.md\:mt-24{margin-top:6rem}.md\:mt-6{margin-top:1.5rem}.md\:w-5\/12{width:41.666667%}.md\:gap-10{gap:2.5rem}.md\:gap-y-12{row-gap:3rem}.md\:text-4xl{font-size:2.25rem;line-height:2.5rem}.md\:text-5xl{font-size:3rem;line-height:1}}@media (min-width:1024px){.lg\:mx-0{margin-left:0;margin-right:0}.lg\:my-24{margin-bottom:6rem;margin-top:6rem}.lg\:mb-12{margin-bottom:3rem}.lg\:ml-auto{margin-left:auto}.lg\:mr-12{margin-right:3rem}.lg\:mt-24{margin-top:6rem}.lg\:w-1\/2{width:50%}.lg\:flex-row{flex-direction:row}.lg\:gap-16{gap:4rem}.lg\:p-12{padding:3rem}.lg\:py-12{padding-bottom:3rem;padding-top:3rem}}.dark\:block:where(.dark,.dark *){display:block}.dark\:hidden:where(.dark,.dark *){display:none}.dark\:border-slate-600:where(.dark,.dark *){--tw-border-opacity:1;border-color:rgb(71 85 105/var(--tw-border-opacity))}.dark\:bg-\[rgba\(0\2c 0\2c 0\2c 0\.1\)\]:where(.dark,.dark *){background-color:rgba(0,0,0,.1)}.dark\:bg-slate-700:where(.dark,.dark *){--tw-bg-opacity:1;background-color:rgb(51 65 85/var(--tw-bg-opacity))}.dark\:bg-\[radial-gradient\(ellipse_at_top\2c _var\(--tw-gradient-stops\)\)\]:where(.dark,.dark *){background-image:radial-gradient(ellipse at top,var(--tw-gradient-stops))}.dark\:from-\[\#282a2d\]:where(.dark,.dark *){--tw-gradient-from:#282a2d var(--tw-gradient-from-position);--tw-gradient-to:rgba(40,42,45,0) var(--tw-gradient-to-position);--tw-gradient-stops:var(--tw-gradient-from),var(--tw-gradient-to)}.dark\:via-\[\#101114\]:where(.dark,.dark *){--tw-gradient-to:rgba(16,17,20,0) var(--tw-gradient-to-position);--tw-gradient-stops:var(--tw-gradient-from),#101114 var(--tw-gradient-via-position),var(--tw-gradient-to)}.dark\:to-black:where(.dark,.dark *){--tw-gradient-to:#000 var(--tw-gradient-to-position)}.dark\:fill-white:where(.dark,.dark *){fill:#fff}.dark\:stroke-\[\#475569\]:where(.dark,.dark *){stroke:#475569}.dark\:text-emerald-300:where(.dark,.dark *){--tw-text-opacity:1;color:rgb(110 231 183/var(--tw-text-opacity))}.dark\:text-emerald-500:where(.dark,.dark *){--tw-text-opacity:1;color:rgb(16 185 129/var(--tw-text-opacity))}.dark\:text-white:where(.dark,.dark *){--tw-text-opacity:1;color:rgb(255 255 255/var(--tw-text-opacity))}.dark\:opacity-30:where(.dark,.dark *){opacity:.3}.dark\:invert:where(.dark,.dark *){--tw-invert:invert(100%);filter:var(--tw-blur) var(--tw-brightness) var(--tw-contrast) var(--tw-grayscale) var(--tw-hue-rotate) var(--tw-invert) var(--tw-saturate) var(--tw-sepia) var(--tw-drop-shadow)}.hover\:dark\:border-slate-950:where(.dark,.dark *):hover{--tw-border-opacity:1;border-color:rgb(2 6 23/var(--tw-border-opacity))}.dark\:hover\:invert-0:hover:where(.dark,.dark *){--tw-invert:invert(0);filter:var(--tw-blur) var(--tw-brightness) var(--tw-contrast) var(--tw-grayscale) var(--tw-hue-rotate) var(--tw-invert) var(--tw-saturate) var(--tw-sepia) var(--tw-drop-shadow)}

diff --git a/assets/js/index copy.js b/assets/js/index copy.js
@@ -7,14 +7,17 @@ window.addEventListener('scroll', function () {
             element.classList.add('visible');
         }
     });
+
     const hoverElements = document.querySelectorAll('.sound');
     const hoverAudio = document.getElementById('hoverSound');
     const actionAudio = document.getElementById('actionSound');
+
     hoverElements.forEach(element => {
         element.addEventListener('mouseenter', function () {
             hoverAudio.currentTime = 0; // Reinicia el audio al principio
             hoverAudio.play();
         });
+
         element.addEventListener('click', function () {
             actionAudio.currentTime = 0; // Reinicia el audio de acción al principio
             actionAudio.play();
@@ -26,7 +29,41 @@ document.addEventListener('DOMContentLoaded', function () {
     const toggleModal = () => {
         modal.classList.toggle('hidden');
     }
+    /* const form = document.querySelector('form');
+     const name = document.getElementById('name');
+     const email = document.getElementById('email');
+     const subject = document.getElementById('subject');
+     const message = document.getElementById('message');
+     form.addEventListener('submit', function(event) {
+         event.preventDefault();
+         const data = {
+             name: name.value,
+             email: email.value,
+             subject: subject.value,
+             message: message.value
+         };
+         console.log(data);
+     });*/
 });
+
+function actualizarImagen() {
+    const imagenLight = document.getElementById('carles-image-light');
+    const imagenDark = document.getElementById('carles-image-dark');
+    const esModoOscuro = document.documentElement.classList.contains('dark');
+    if (esModoOscuro) {
+        imagenLight.style.opacity = '0';
+        imagenDark.style.opacity = '1';
+    } else {
+        imagenLight.style.opacity = '1';
+        imagenDark.style.opacity = '0';
+    }
+}
+// Actualizar la imagen correcta al inicio
+actualizarImagen();
+// Observar cambios en la clase 'dark' del HTML
+const observer = new MutationObserver(actualizarImagen);
+observer.observe(document.documentElement, { attributes: true, attributeFilter: ['class'] });
+
 //mensaje
 console.log('Hola! Soy Carles Esteve y soy desarrollador web full stack y soy de Valencia, España.');
 console.log('Me especializo en la creación de sitios web y aplicaciones web con Wordpress.');

diff --git a/assets/js/space.js b/assets/js/space.js
@@ -54,8 +54,9 @@ class SpaceBackground {
                     void main() {
                         vec2 xy = gl_PointCoord.xy - vec2(0.5);
                         float radius = length(xy);
+                        float alpha = 1.0 - smoothstep(0.3, 0.5, radius);
                         if (radius > 0.5) discard;
-                        gl_FragColor = vec4(0.28, 0.33, 0.41, 1.0); // Color #475569
+                        gl_FragColor = vec4(0.28, 0.33, 0.41, alpha); // Color #475569 con alpha variable
                     }
                 `,
                 transparent: true

diff --git a/views/templates/front-page copy.php b/views/templates/front-page copy.php
@@ -14,9 +14,13 @@
                 </div>
             </header>
         </div>
-        <div class="w-fit h-fit aspect-square flex relative mx-auto lg:mx-0 rounded-full overflow-hidden backdrop-blur-sm shadow-md shadow-slate-950/20 border-l border-t border-white dark:border-slate-600 dark:bg-[rgba(0,0,0,0.1)] bg-[rgba(255,255,255,0.1)] duration-500">
-            <img id="crls-img" loading="lazy" title="carles esteve" src="./assets/images/carles-transparent.webp" alt="carles esteve" width="250" height="250" class="h-48 w-auto aspect-square self-end transition-opacity duration-500 filter drop-shadow shadow-neutral-300">
+        <div class="w-fit h-48 aspect-square flex relative mx-auto lg:mx-0">
+            <img id="carles-image-light" loading="lazy" title="carles esteve" src="./assets/images/carles-light.webp" alt="carles esteve" width="250" height="250" class="h-full w-auto aspect-square self-end absolute transition-opacity duration-500 filter drop-shadow shadow-neutral-300">
+            <img id="carles-image-dark" loading="lazy" title="carles esteve" src="./assets/images/carles-dark.webp" alt="carles esteve" width="250" height="250" class="h-full w-auto aspect-square self-end absolute transition-opacity duration-500 filter drop-shadow shadow-neutral-300">
         </div>
+        <!-- <div id="monkey" class="w-full lg:w-1/2 h-36">
+            <div id="monkey-container"></div>
+        </div> -->
     </section>
     <section id="experiencia" class="container mx-auto mb-6 lg:py-12 flex flex-col">
         <h2 class="font-title p-6 text-3xl md:text-4xl text-center font-bold dark:text-emerald-300 text-violet-500 leading-4 mb-6">experiencia</h2>
@@ -154,6 +158,7 @@
             </div>
         </div>
         <script>
+            // SPLIDE SLIDER //
             document.addEventListener('DOMContentLoaded', function() {
                 new Splide('.splide', {
                     gap: 40,
@@ -183,7 +188,6 @@
             });
         </script>
     </section>
-    <?php //Functions::partial('modal'); 
-    ?>
+    <?php //Functions::partial('modal'); ?>
 </main>
 <?php Functions::partial('footer'); ?>

diff --git a/views/partials/header copy.php b/views/partials/header copy.php
@@ -1,5 +1,6 @@
 <!DOCTYPE html>
 <html lang="es" class="dark scroll-smooth">
+
 <head>
     <meta charset="UTF-8">
     <meta name='robots' content='index, follow, max-image-preview:large, max-snippet:-1, max-video-preview:-1' />
@@ -30,6 +31,7 @@
     <script defer type="module" src="./assets/js/space.js"></script>
     <script defer type="module" src="./assets/js/splide.min.js"></script>
 </head>
+
 <body id="fireworks" class="min-h-dvh bg-[radial-gradient(ellipse_at_top,_var(--tw-gradient-stops))] from-slate-50 via-slate-100  to-gray-50 dark:bg-[radial-gradient(ellipse_at_top,_var(--tw-gradient-stops))] dark:from-[#282a2d] dark:via-[#101114] dark:to-black scroll-smooth duration-500">
     <header class="sticky top-0 z-50">
         <nav class="w-full py-4 container">
